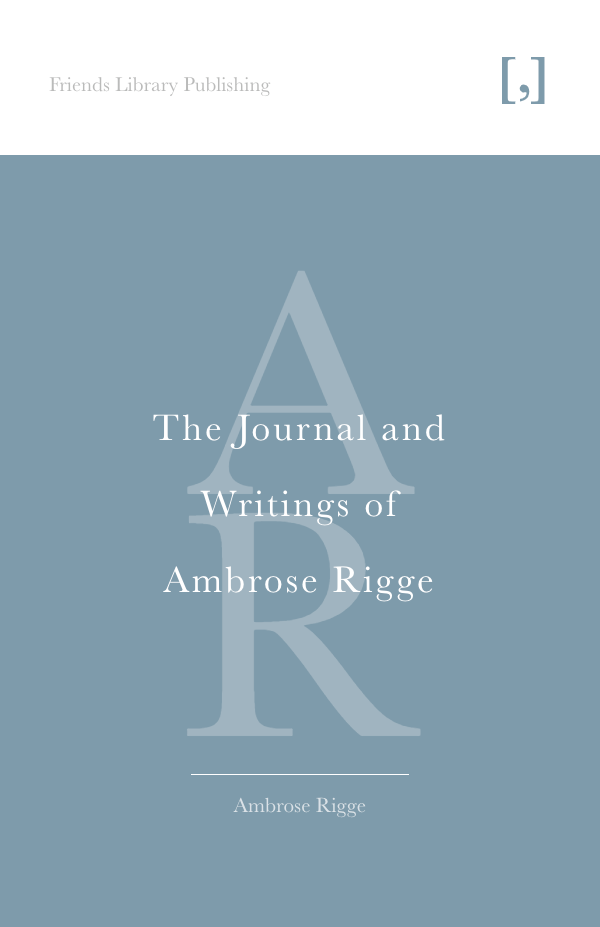
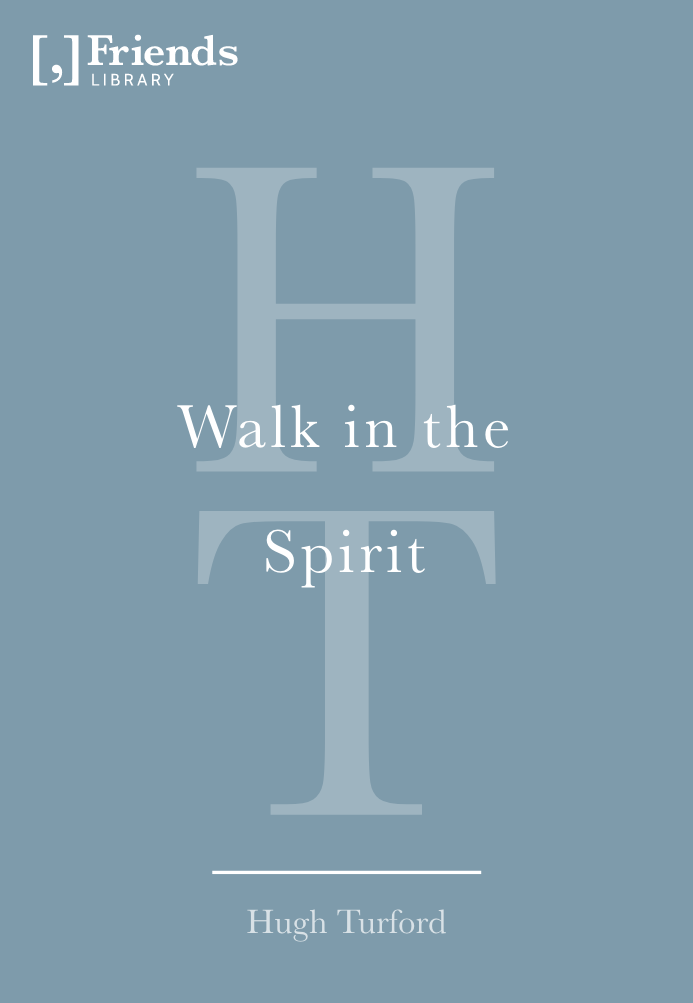
wip lol

Changed region(s): [[0.0, 0.0, 1.0, 0.8155], [0.3, 0.8457, 0.69, 0.8759], [0.36, 0.9061, 0.66, 0.9364]]

diff --git a/packages/cover/src/components/App.tsx b/packages/cover/src/components/App.tsx
@@ -31,6 +31,7 @@ interface State {
   maskBleed: boolean;
   showCode: boolean;
   threeD: boolean;
+  ebook: boolean;
   threeDView: View;
   customBlurbs: Record<string, string>;
   customHtml: Record<string, string>;
@@ -43,6 +44,7 @@ export default class App extends React.Component<{}, State> {
     docIndex: 0,
     edIndex: 0,
     fit: true,
+    ebook: true,
     showGuides: false,
     showCode: false,
     maskBleed: true,
@@ -64,6 +66,37 @@ export default class App extends React.Component<{}, State> {
     });
 
     window.addEventListener('resize', () => this.forceUpdate());
+
+    const query = new URLSearchParams(window.location.search);
+    if (query.has('ebook')) {
+      const id = query.get('id');
+      this.setState({
+        ebook: true,
+        threeD: false,
+        fit: false,
+        ...(id ? this.stateFromId(id) : {}),
+      });
+    }
+  }
+
+  protected stateFromId(id: string): any {
+    for (let friendIndex = 0; friendIndex < friendData.length; friendIndex++) {
+      const friend = friendData[friendIndex];
+      for (let docIndex = 0; docIndex < friend.documents.length; docIndex++) {
+        const doc = friend.documents[docIndex];
+        for (let edIndex = 0; edIndex < doc.editions.length; edIndex++) {
+          const ed = doc.editions[edIndex];
+          if (ed.id === id) {
+            return {
+              friendIndex,
+              docIndex,
+              edIndex,
+            };
+          }
+        }
+      }
+    }
+    return {};
   }
 
   protected selectedEntities(): {
@@ -85,13 +118,13 @@ export default class App extends React.Component<{}, State> {
   }
 
   protected coverProps(): CoverProps | undefined {
-    const { showGuides } = this.state;
+    const { showGuides, ebook } = this.state;
     const { friend, doc, ed } = this.selectedEntities();
     if (!friend || !doc || !ed) return;
     return {
       author: friend.name,
       title: prepareTitle(doc.title, friend.name),
-      printSize: ed.defaultSize,
+      printSize: ebook ? 's' : ed.defaultSize,
       pages: ed.pages[ed.defaultSize],
       edition: ed.type,
       blurb: formatBlurb(this.getBlurb(friend, doc)),
@@ -309,10 +342,16 @@ export default class App extends React.Component<{}, State> {
       threeD,
       threeDView,
       showCode,
+      ebook,
     } = this.state;
     const coverProps = this.coverProps();
     return (
-      <div className={`App web trim--${coverProps ? coverProps.printSize : 'm'}`}>
+      <div
+        className={classNames('App', 'web', {
+          [`trim--${coverProps ? coverProps.printSize : 'm'}`]: true,
+          ebook: ebook,
+        })}
+      >
         <KeyEvent handleKeys={['right']} onKeyEvent={() => this.changeCover(FORWARD)} />
         <KeyEvent handleKeys={['left']} onKeyEvent={() => this.changeCover(BACKWARD)} />
         <KeyEvent handleKeys={['f']} onKeyEvent={() => this.changeFriend(FORWARD)} />

diff --git a/packages/kite/src/publish/epub/manifest.ts b/packages/kite/src/publish/epub/manifest.ts
@@ -9,23 +9,24 @@ import { packageDocument } from './package-document';
 import { makeFootnoteCallReplacer, notesMarkup } from './notes';
 import { nav } from './nav';
 import { frontmatter } from './frontmatter';
+import puppeteer from 'puppeteer';
 
 interface SubManifest<T> {
   [key: string]: T;
 }
 
-export function getEpubManifest(job: Job): FileManifest {
-  return mapValues(getEbookManifest(job), removeMobi7Tags);
+export async function getEpubManifest(job: Job): Promise<FileManifest> {
+  return mapValues(await getEbookManifest(job), removeMobi7Tags);
 }
 
-export function getEbookManifest(job: Job): FileManifest {
+export async function getEbookManifest(job: Job): Promise<FileManifest> {
   return {
     mimetype: 'application/epub+zip',
     'META-INF/container.xml': container(),
     'OEBPS/style.css': css(job),
     'OEBPS/package-document.opf': packageDocument(job),
     'OEBPS/nav.xhtml': wrapHtml(nav(job)),
-    ...coverFiles(job),
+    ...(await coverFiles(job)),
     ...sectionFiles(job),
     ...notesFile(job),
     ...frontmatterFiles(job),
@@ -42,15 +43,25 @@ function frontmatterFiles(job: Job): SubManifest<Html> {
   );
 }
 
-function coverFiles(job: Job): SubManifest<Html> {
+async function coverFiles(job: Job): Promise<SubManifest<Html>> {
   const manifest: SubManifest<Html> = {};
-  if (job.meta.createEbookCover) {
-    manifest['OEBPS/cover.png'] = `${__dirname}/cover.png`;
-    manifest['OEBPS/cover.xhtml'] = wrapHtml(
-      '<figure id="cover"><img alt="Cover" src="cover.png"/></figure>',
-      'cover',
-    );
+  if (!job.meta.createEbookCover) {
+    return manifest;
   }
+
+  const browser = await puppeteer.launch({ headless: true, XslowMo: 500 });
+  const page = await browser.newPage();
+  /* 859 x 1367 */
+
+  await page.setViewport({ width: 693, height: 1003 });
+  await page.goto(`http://localhost:9999?ebook=true&id=${job.spec.meta.coverId}`);
+  const path = `${__dirname}/cover.png`;
+  await page.screenshot({ path });
+  manifest['OEBPS/cover.png'] = path;
+  manifest['OEBPS/cover.xhtml'] = wrapHtml(
+    '<figure id="cover"><img alt="Cover" src="cover.png"/></figure>',
+    'cover',
+  );
   return manifest;
 }
 

diff --git a/packages/kite/src/cmd/publish/handler.ts b/packages/kite/src/cmd/publish/handler.ts
@@ -46,29 +46,30 @@ export default async function handler(argv: Arguments<PublishOptions>): Promise<
   }
   const makeCover = argv.createEbookCover && argv.target.join('').match(/epub|mobi/);
 
-  if (makeCover) {
-    if (!argv.skipCoverBuild) {
-      green('Building cover app...');
-      execSync(`cd ${process.cwd()} && yarn cover:build`);
-    }
-    green('Serving cover app');
-    exec(`cd ${process.cwd()}/packages/kite && yarn serve -l 5111 ../cover/build`);
-    // give `serve` time to do it's thing
-    await new Promise(res => setTimeout(res, 2000));
-  }
+  // if (makeCover) {
+  //   if (!argv.skipCoverBuild) {
+  //     green('Building cover app...');
+  //     execSync(`cd ${process.cwd()} && yarn cover:build`);
+  //   }
+  //   green('Serving cover app');
+  //   execSync('lsof -t -i tcp:5111 | xargs kill');
+  //   exec(`cd ${process.cwd()}/packages/kite && yarn serve -l 5111 ../cover/build`);
+  //   await new Promise(res => setTimeout(res, 1000));
+  //   green('Cover app served 👍');
+  // }
 
   const precursors = getPrecursors(argv.path);
-  publishPrecursors(precursors, argv);
-
-  if (makeCover) {
-    exec('lsof -t -i tcp:5111 | xargs kill');
-  }
+  await publishPrecursors(precursors, argv);
+  // if (makeCover) {
+  //   execSync('lsof -t -i tcp:5111 | xargs kill');
+  // }
+  process.exit(0);
 }
 
 export function publishPrecursors(
   precursors: SourcePrecursor[],
   argv: PublishOptions,
-): void {
+): Promise<DocumentArtifacts[]> {
   fs.removeSync(PUBLISH_DIR);
   fs.ensureDir(PUBLISH_DIR);
 
@@ -83,6 +84,7 @@ export function publishPrecursors(
   if (argv.send) {
     complete.then(() => send(jobs.map(j => j.filename), argv.email));
   }
+  return complete;
 }
 
 function extractMeta(argv: PublishOptions): JobMeta {

diff --git a/packages/kite/src/publish/epub/make.ts b/packages/kite/src/publish/epub/make.ts
@@ -6,17 +6,16 @@ import { Job, FileManifest, DocumentArtifacts } from '@friends-library/types';
 import { getEpubManifest } from './manifest';
 import { PUBLISH_DIR } from '../file';
 
-export function makeEpub(job: Job): Promise<DocumentArtifacts> {
-  const manifest = getEpubManifest(job);
-  let artifacts: DocumentArtifacts;
-  return writeEbookManifest(manifest, job)
-    .then(ebookArtifacts => (artifacts = ebookArtifacts))
-    .then(() => (job.meta.check ? check(job.spec.filename) : undefined))
-    .catch((messages: Message[]) => {
-      logEpubCheckFail(job.filename, messages);
-      process.exit(1);
-    })
-    .then(() => artifacts);
+export async function makeEpub(job: Job): Promise<DocumentArtifacts> {
+  const manifest = await getEpubManifest(job);
+  const artifacts = await writeEbookManifest(manifest, job);
+  try {
+    if (job.meta.check) await check(job.spec.filename);
+  } catch (messages) {
+    logEpubCheckFail(job.filename, messages);
+    process.exit(1);
+  }
+  return artifacts;
 }
 
 export async function writeEbookManifest(

diff --git a/packages/cover/src/components/Cover/css/ebook.css.ts b/packages/cover/src/components/Cover/css/ebook.css.ts
@@ -1,0 +1,47 @@
+import css from './tmpl';
+
+const ebookCss: string = css`
+  /* .ebook .back,
+  .ebook .spine, */
+  .ebook.web .cover-mask {
+    display: none;
+  }
+
+  .ebook.web .cover-wrap {
+    width: var(--pageWidth);
+    overflow: hidden;
+    position: absolute;
+    top: -1.49in;
+    left: 0;
+    transform: scale(1.5);
+    transform-origin: top left;
+  }
+
+  .ebook.web .cover {
+    position: absolute;
+    top: 0;
+    right: 0;
+  }
+
+  .ebook.web .front {
+    transform: translateX(var(--trimBleed)) scale(1.1) translateY(var(--safety));
+  }
+
+  .ebook.web .back .logo {
+    position: fixed;
+    top: 1.2in;
+    left: 0.2in;
+    /* transform: translateX(4.5in) translateY(-5.17in); */
+  }
+
+  .ebook.web .front {
+    /* transform: scale(1.2); */
+  }
+
+  .ebook.web .cover,
+  .ebook.web .cover-wrap,
+  .ebook.web .bg-block {
+  }
+`;
+
+export default ebookCss;

diff --git a/packages/cover/src/scripts/friend-data.ts b/packages/cover/src/scripts/friend-data.ts
@@ -56,11 +56,15 @@ function mapDocuments(friend: Friend): FriendData['documents'] {
       description: document.description,
       customCss,
       customHtml,
-      editions: document.editions.map(edition => ({
-        type: friend.lang === 'es' ? 'spanish' : edition.type,
-        ...(edition.isbn ? { isbn: edition.isbn } : {}),
-        ...estimatePages(edition),
-      })),
+      editions: document.editions.map(edition => {
+        const type = friend.lang === 'es' ? 'spanish' : edition.type;
+        return {
+          id: `${friend.slug}/${document.slug}/${type}`,
+          type,
+          ...(edition.isbn ? { isbn: edition.isbn } : {}),
+          ...estimatePages(edition),
+        };
+      }),
     };
   });
 }

diff --git a/packages/asciidoc/src/job/index.ts b/packages/asciidoc/src/job/index.ts
@@ -24,6 +24,7 @@ export function createPrecursor(
     adoc: data.adoc || '',
     meta: {
       title: 'Unknown Document',
+      coverId: '',
       author: {
         name: get(data, 'meta.author.name', 'Unknown Author'),
         nameSort: get(data, 'meta.author.nameSort', 'Author, Unknown'),
@@ -39,6 +40,7 @@ export function createJob(data: { [k in keyof Job]?: any } = {}): Job {
     perform: false,
     condense: false,
     frontmatter: true,
+    createEbookCover: false,
   };
   return {
     id: uuid(),

diff --git a/packages/kite/src/cmd/cover/handler.ts b/packages/kite/src/cmd/cover/handler.ts
@@ -23,7 +23,11 @@ export default async function cover(): Promise<void> {
 }
 
 export async function coverFromProps(props: CoverProps): Promise<FilePath> {
-  const el = React.createElement(Cover, props);
+  const el = React.createElement(Cover, {
+    ...props,
+    updateBlurb: () => {}, // @TODO why default props no work?
+    allowEditingBlurb: false,
+  });
   const html = ReactDOMServer.renderToStaticMarkup(el);
   const isbnPath = `images/isbn/${props.isbn}.png`;
   const manifest = {

diff --git a/packages/cover/src/components/Cover/css/cover.css.ts b/packages/cover/src/components/Cover/css/cover.css.ts
@@ -7,6 +7,7 @@ import blurb from './blurb.css';
 import threeD from './3d.css';
 import back from './back.css';
 import front from './front.css';
+import ebook from './ebook.css';
 import css from './tmpl';
 
 const coverCss: string = css`
@@ -134,6 +135,7 @@ ${guides}
 ${isBrowser ? threeD : ''}
 ${front}
 ${back}
+${ebook}
 `;
 
 export default coverCss;

diff --git a/packages/asciidoc/src/job/utils.ts b/packages/asciidoc/src/job/utils.ts
@@ -6,6 +6,9 @@ export function getDocumentMeta(edition: Edition): DocumentMeta {
   const { friend } = document;
   return {
     title: document.title,
+    coverId: `${friend.slug}/${document.slug}/${
+      friend.lang === 'es' ? 'spanish' : edition.type
+    }`,
     author: {
       name: friend.name,
       nameSort: friend.alphabeticalName(),

diff --git a/packages/cover/src/components/Cover/css.ts b/packages/cover/src/components/Cover/css.ts
@@ -5,6 +5,7 @@ import cssString from './css/cover.css';
 
 export function cssVars(props: CoverProps): Record<string, string> {
   const { dims: book } = getBookSize(props.printSize);
+  // const book = { width: 4, height: 6 }
   const safety = 0.25;
   const trimBleed = 0.125;
   const spinePad = 0.06;

diff --git a/packages/cover/src/components/Cover/types.ts b/packages/cover/src/components/Cover/types.ts
@@ -9,6 +9,7 @@ import {
 } from '@friends-library/types';
 
 export interface EditionData {
+  id: string;
   type: EditionType | 'spanish';
   pages: Record<PrintSizeAbbrev, number>;
   defaultSize: PrintSizeAbbrev;
